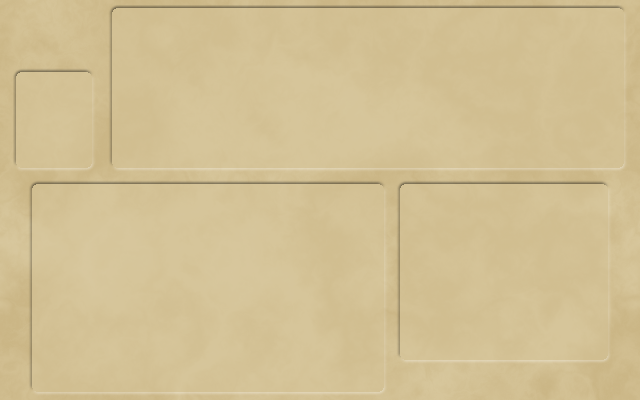
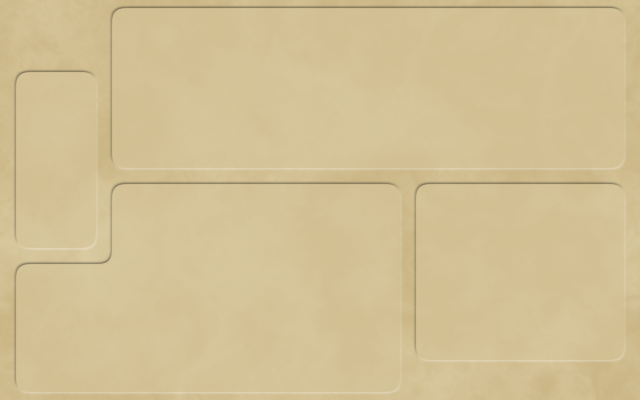
Updated UI for upcoming features

diff --git a/FTMSynth/Source/PluginEditor.cpp b/FTMSynth/Source/PluginEditor.cpp
@@ -34,7 +34,7 @@ FTMSynthAudioProcessorEditor::FTMSynthAudioProcessorEditor(FTMSynthAudioProcesso
     : AudioProcessorEditor(&p), processor(p), alphaOff(0.125f),
     stringButton("string"), drumButton("drum"), boxButton("box"),
     kbTrackButton("KB TRACK"), tauGateButton("RELEASE"), pGateButton("RING"),
-    mainControls(112, 8, 512, 158), xyzControls(400, 176, 208, 216),
+    mainControls(112, 8, 512, 158), xyzControls(416, 176, 208, 216),
     visualPanel(p, r1Slider, r2Slider, r3Slider), helpButton("help")
 {
     setSize(640, 400);
@@ -438,8 +438,10 @@ void FTMSynthAudioProcessorEditor::resized()
     drumButton.setBounds(   mainControls.getX() + 350, mainControls.getY() +    btnOffY, 64, 40);
     boxButton.setBounds(    mainControls.getX() + 434, mainControls.getY() +    btnOffY, 64, 40);
 
-    volumeSlider.setBounds( mainControls.getX() -  90, mainControls.getY() +   knobOffY, 64, 64);
-    volumeLabel.setBounds(  mainControls.getX() -  92, mainControls.getY() +    lblOffY, 72, 14);
+    volumeSlider.setBounds( mainControls.getX() -  88, mainControls.getY() +   knobOffY, 64, 64);
+    volumeLabel.setBounds(  mainControls.getX() -  90, mainControls.getY() +    lblOffY, 72, 14);
+    // attackSlider.setBounds( mainControls.getX() -  80, mainControls.getY() +   knobOffY, 48, 48);
+    // attackLabel.setBounds(  mainControls.getX() -  82, mainControls.getY() +   knobOffY, 56, 14);
 
     pitchSlider.setBounds(  mainControls.getX() +  14, mainControls.getY() +   knobOffY-16, 64, 64+16);
     pitchLabel.setBounds(   mainControls.getX() +  10, mainControls.getY() +    lblOffY, 72, 14);
@@ -461,24 +463,25 @@ void FTMSynthAudioProcessorEditor::resized()
     alpha2Slider.setBounds( mainControls.getX() + 434, mainControls.getY() +   knobOffY, 64, 64);
     alpha2Label.setBounds(  mainControls.getX() + 430, mainControls.getY() +    lblOffY, 72, 14);
 
-    r1Slider.setBounds(xyzControls.getX() +   8, xyzControls.getY() +  34, 48, 48);
+    r1Slider.setBounds(xyzControls.getX() +  12, xyzControls.getY() +  34, 48, 48);
     r2Slider.setBounds(xyzControls.getX() +  80, xyzControls.getY() +  34, 48, 48);
-    r3Slider.setBounds(xyzControls.getX() + 152, xyzControls.getY() +  34, 48, 48);
-    rLabel.setBounds(  xyzControls.getX() +  74, xyzControls.getY() +  16, 64, 14);
-    m1Slider.setBounds(xyzControls.getX() +   8, xyzControls.getY() + 110, 48, 48);
+    r3Slider.setBounds(xyzControls.getX() + 148, xyzControls.getY() +  34, 48, 48);
+    rLabel.setBounds(  xyzControls.getX() +  81, xyzControls.getY() +  16, 50, 14);
+    m1Slider.setBounds(xyzControls.getX() +  12, xyzControls.getY() + 110, 48, 48);
     m2Slider.setBounds(xyzControls.getX() +  80, xyzControls.getY() + 110, 48, 48);
-    m3Slider.setBounds(xyzControls.getX() + 152, xyzControls.getY() + 110, 48, 48);
-    mLabel.setBounds(  xyzControls.getX() +  74, xyzControls.getY() + 164, 64, 14);
-    xLabel.setBounds(  xyzControls.getX() +  22, xyzControls.getY() +  89, 24, 14);
+    m3Slider.setBounds(xyzControls.getX() + 148, xyzControls.getY() + 110, 48, 48);
+    mLabel.setBounds(  xyzControls.getX() +  81, xyzControls.getY() + 164, 50, 14);
+    xLabel.setBounds(  xyzControls.getX() +  26, xyzControls.getY() +  89, 24, 14);
     yLabel.setBounds(  xyzControls.getX() +  94, xyzControls.getY() +  89, 24, 14);
-    zLabel.setBounds(  xyzControls.getX() + 166, xyzControls.getY() +  89, 24, 14);
+    zLabel.setBounds(  xyzControls.getX() + 162, xyzControls.getY() +  89, 24, 14);
 
-    voicesSlider.setBounds(16, 16, 76, 24);
-    voicesLabel.setBounds( 16, 48, 76, 14);
+    voicesSlider.setBounds(16, 16, 80, 24);
+    voicesLabel.setBounds( 18, 48, 76, 14);
 
-    visualPanel.setBounds(32, 180, 352, 212);
-    helpButton.setBounds(32, 344, 48, 48);
+    visualPanel.setBounds(16, 180, 352, 212);
+    helpButton.setBounds(16, 344, 48, 48);
+    // midiButton.setBounds(52, 344, 48, 48);
 
-    algoComboBox.setBounds(464, 368, 144, 24);
-    algoLabel.setBounds(   400, 368,  56, 24);
+    algoComboBox.setBounds(480, 368, 144, 24);
+    algoLabel.setBounds(   416, 368,  56, 24);
 }

diff --git a/FTMSynth/Source/VisualPanel.cpp b/FTMSynth/Source/VisualPanel.cpp
@@ -67,14 +67,17 @@ void VisualPanel::setDimensions(int dim)
 
 void VisualPanel::updateBounds()
 {
+    // TODO set const coordinate offset (x, y) for clickable visualization
+    // (in order to avoid manually changing every variable when repositioning the widget)
+
     if (dimensions == 1)
     {
-        bounds.setBounds(128.0f, 104.0f, 192.0f, 32.0f);
+        bounds.setBounds(152.0f, 104.0f, 192.0f, 32.0f);
     }
     if (dimensions == 2)
     {
         float alpha1 = processor.tree.getRawParameterValue("squareness")->load();
-        bounds.setBounds(128.0f, 108.0f-(192.0f*alpha1/2.0f),
+        bounds.setBounds(152.0f, 108.0f-(192.0f*alpha1/2.0f),
                          192.0f, 192.0f*alpha1);
     }
     if (dimensions == 3)
@@ -84,7 +87,7 @@ void VisualPanel::updateBounds()
         float r3 = processor.tree.getRawParameterValue("r3")->load();
         float height = 128.0f*alpha1;
         float depth = 64.0f*alpha2;
-        bounds.setBounds(160.0f+((r3-0.5f)*depth), 108.0f-(height*0.5f)+((0.5f-r3)*depth),
+        bounds.setBounds(184.0f+((r3-0.5f)*depth), 108.0f-(height*0.5f)+((0.5f-r3)*depth),
                          128.0f, height);
     }
 }
@@ -99,8 +102,8 @@ void VisualPanel::paint(Graphics& g)
 
         float r1 = processor.tree.getRawParameterValue("r1")->load();
 
-        int left = 120;
-        int right = 312;
+        int left = 144;
+        int right = 336;
         int y = 112;
 
         // draw string
@@ -137,7 +140,7 @@ void VisualPanel::paint(Graphics& g)
 
         float destWidth = 192.0f;
         float destHeight = 192.0f*alpha1;
-        float destX = 128.0f;
+        float destX = 152.0f;
         float destY = 108.0f-(destHeight/2.0f);
 
         float impulseX = destX+(r1*destWidth);
@@ -185,11 +188,11 @@ void VisualPanel::paint(Graphics& g)
         float depth = 64.0f*alpha2;
 
         // compute coordinates of cube vertices
-        float frontLeft = 160.0f-(depth/2.0f);
+        float frontLeft = 184.0f-(depth/2.0f);
         float frontTop = 108.0f-(height/2.0f)+(depth/2.0f);
         float frontRight = frontLeft + width;
         float frontBottom = frontTop + height;
-        float backLeft = 160.0f+(depth/2.0f);
+        float backLeft = 184.0f+(depth/2.0f);
         float backTop = 108.0f-(height/2.0f)-(depth/2.0f);
         float backRight = backLeft + width;
         float backBottom = backTop + height;
@@ -269,7 +272,7 @@ void VisualPanel::paint(Graphics& g)
 void VisualPanel::resized()
 {
     int offsetX = 16;
-    int offsetY = 12;
+    int offsetY = 98;
 
     thisIsALabel.setBounds(offsetX, offsetY, 96, 64);
     nameLabel.setBounds(offsetX + 20, offsetY + 28, 80, 40);
